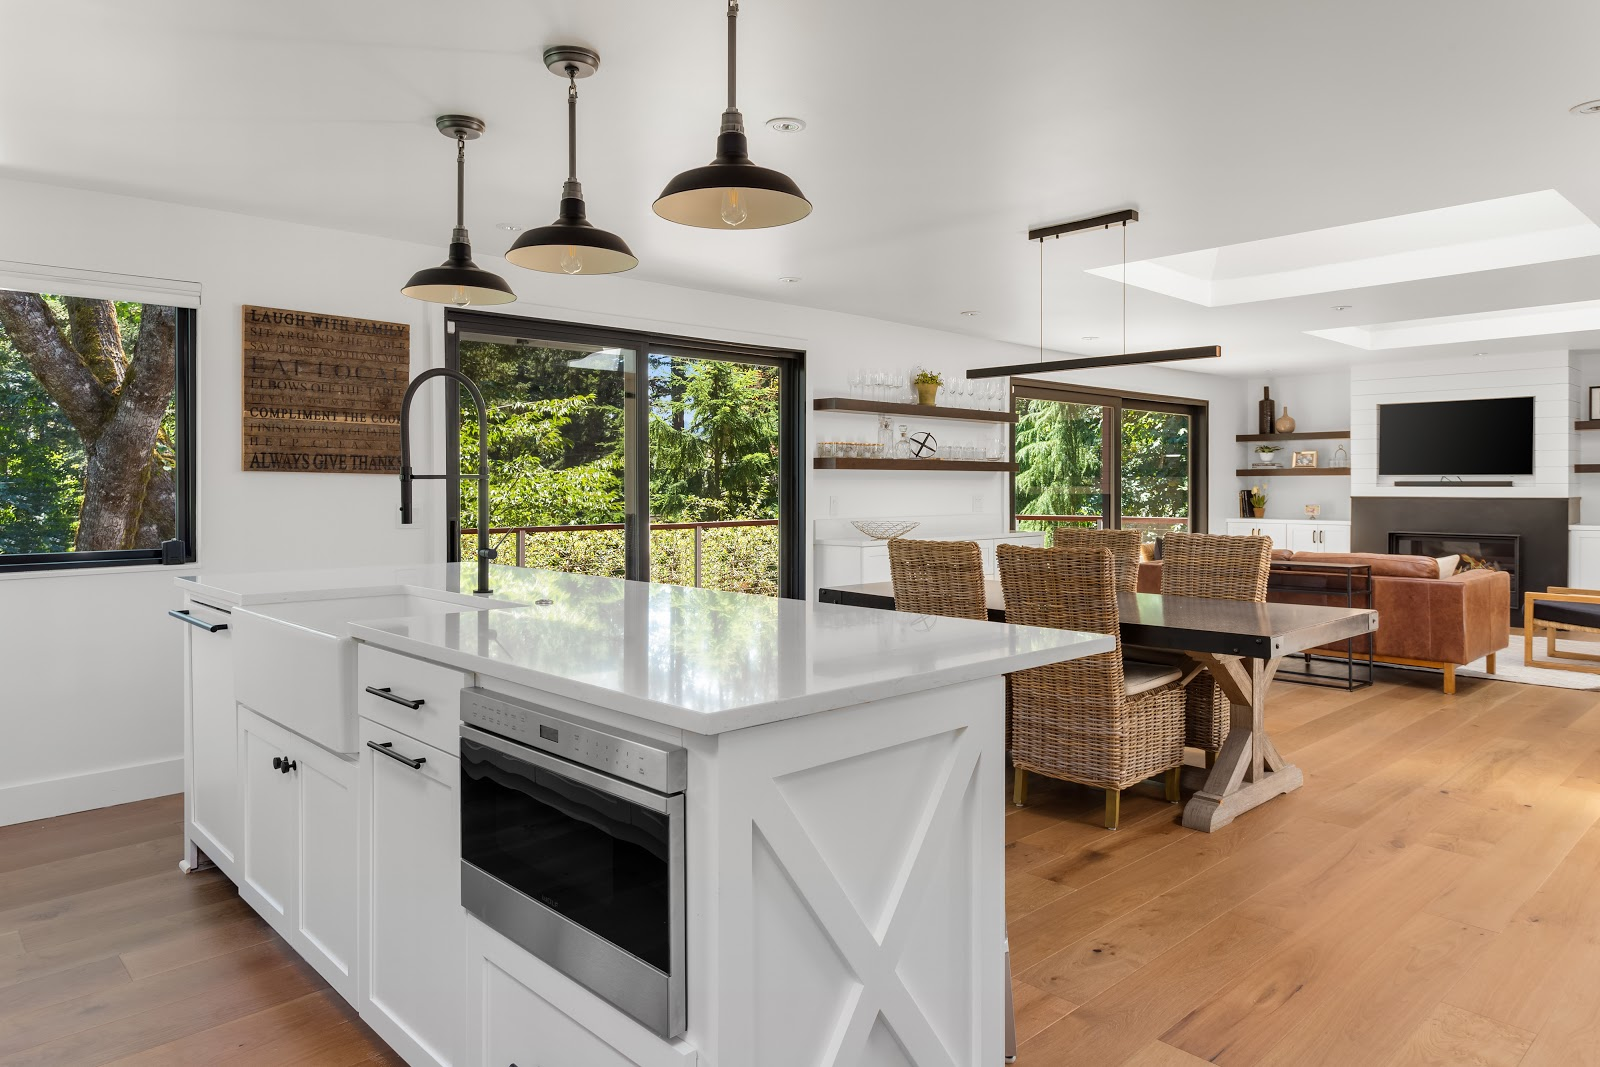
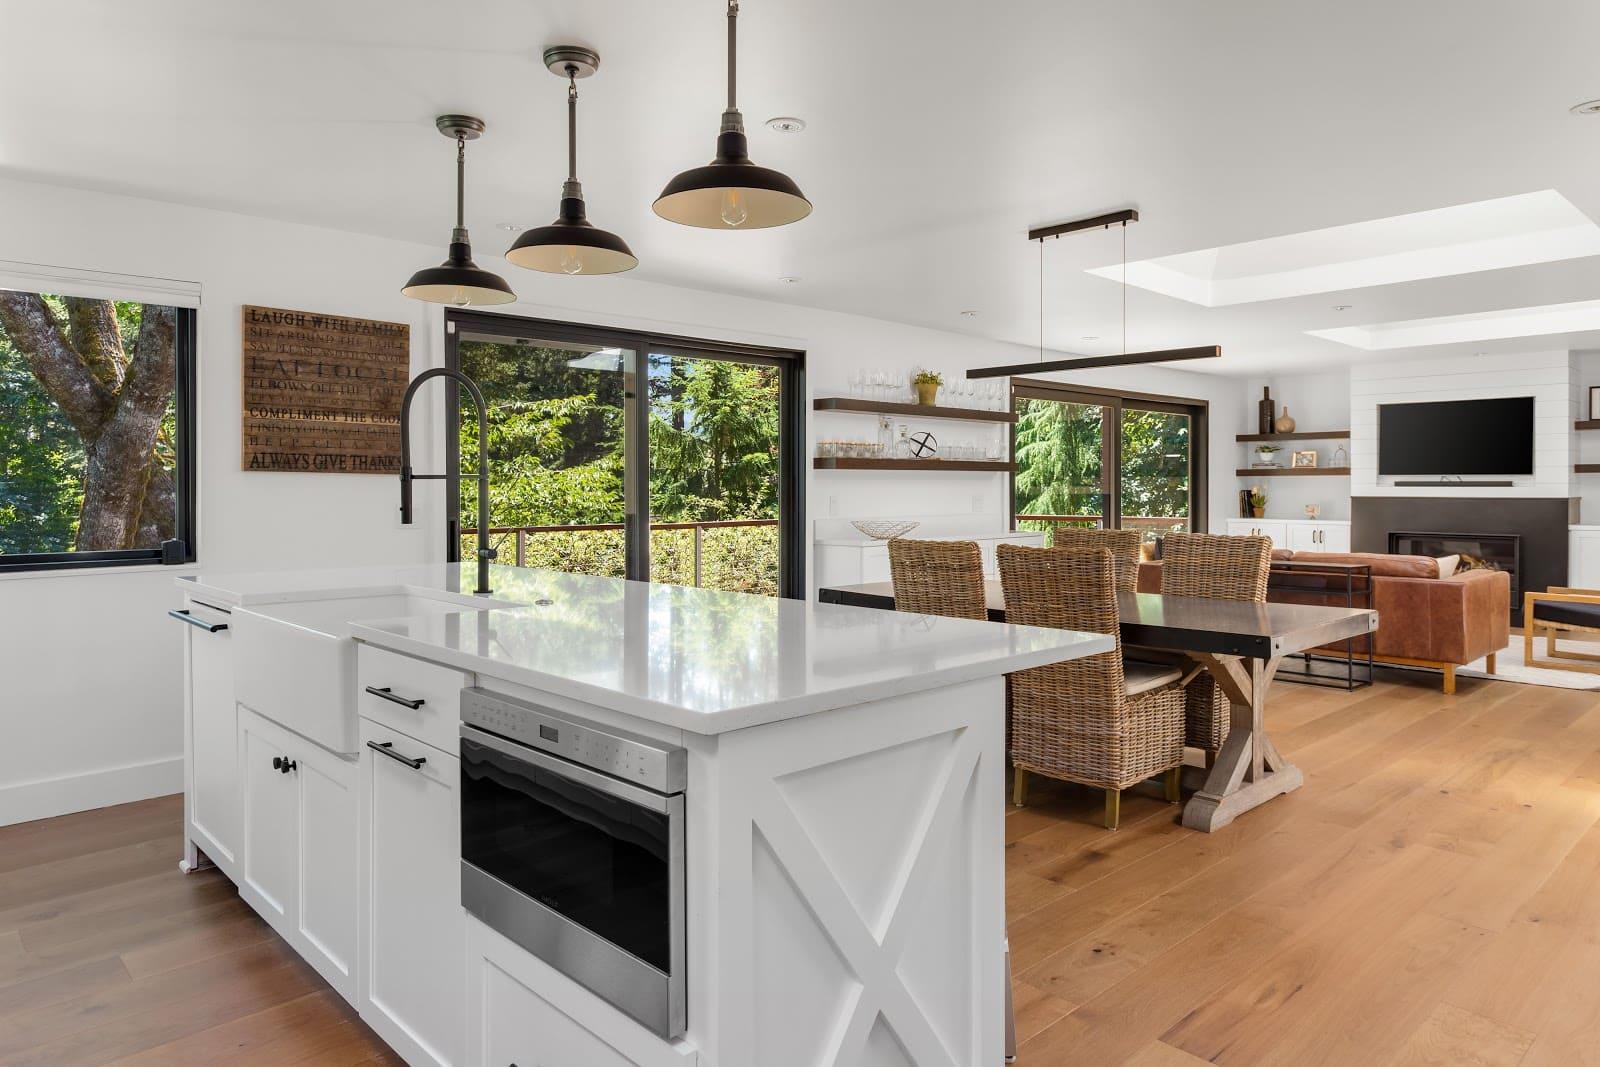
Redimensionare poze

Changed region(s): [[0.2812, 0.3402, 0.5, 0.5567], [0.6875, 0.4021, 0.7188, 0.433], [0.0312, 0.433, 0.0625, 0.4639]]

diff --git a/index.html b/index.html
@@ -29,7 +29,7 @@
 <body>
   <header class="site-header">
     <div class="header-content">
-      <img src="Content/Logo Dodi Innovatis.svg" alt="Dodi Innovatis Logo" class="logo" />
+      <img src="Content/Logo Dodi Innovatis.svg" alt="Dodi Innovatis Logo" class="logo" loading="lazy" />
       <div class="header-right">
         <!-- <div class="search-container">
           <input type="text" id="searchInput" placeholder="Caută..." class="search-input">
@@ -47,8 +47,8 @@
           <a href="#" class="social-link" aria-label="LinkedIn"><i class="fab fa-linkedin-in"></i></a>
         </div>
         <div class="header-buttons">
-          <button class="devis-btn" id="openDevisModal">Demander un Devis</button>
-          <a href="#" class="contact-btn" id="openContactModal">Contact</a>
+          <button type="button" class="btn devis-btn" id="openDevisModal">Demander un Devis</button>
+          <button type="button" class="btn contact-btn" id="openContactModal">Contact</button>
         </div>
 
         <!-- Contact Modal -->
@@ -894,9 +894,30 @@
     </div>
   </div>
 
-  <script src="script.js"></script>
-  <script src="js/contact-modal.js"></script>
-  <script src="js/devis-modal.js"></script>
+  <!-- Script-uri cu defer pentru a nu bloca randarea paginii -->
+  <script src="script.js" defer></script>
+  <script src="js/contact-modal.js" defer></script>
+  <script src="js/devis-modal.js" defer></script>
+  
+  <!-- Preload pentru font-uri critice -->
+  <link rel="preload" href="https://cdnjs.cloudflare.com/ajax/libs/font-awesome/6.0.0/webfonts/fa-solid-900.woff2" as="font" type="font/woff2" crossorigin>
+  
+  <!-- Loader pentru prima încărcare -->
+  <div id="loader" style="position:fixed;top:0;left:0;width:100%;height:100%;background:white;z-index:9999;display:flex;justify-content:center;align-items:center;transition:opacity 0.3s ease-out;">
+    <div style="width:50px;height:50px;border:5px solid #f3f3f3;border-top:5px solid #3498db;border-radius:50%;animation:spin 1s linear infinite"></div>
+  </div>
+  <script>
+    window.addEventListener('load', function() {
+      var loader = document.getElementById('loader');
+      loader.style.opacity = '0';
+      setTimeout(function() {
+        loader.style.display = 'none';
+      }, 300);
+    });
+  </script>
+  <style>
+    @keyframes spin { 0% { transform: rotate(0deg); } 100% { transform: rotate(360deg); } }
+  </style>
 </body>
 
 </html>

diff --git a/styles.css b/styles.css
@@ -878,8 +878,8 @@ img {
   align-items: center;
 }
 
-.header-buttons a.contact-btn,
-.header-buttons button.devis-btn {
+/* Stiluri de bază pentru butoane */
+.btn {
   padding: 8px 20px;
   border-radius: 4px;
   font-weight: 500;
@@ -894,13 +894,29 @@ img {
   background-color: transparent;
   color: #2c3e50;
   border: 1px solid #d7dadd;
+  box-shadow: 0 0 5px rgba(0, 0, 0, 0.1);
 }
 
-.header-buttons a.contact-btn:hover,
-.header-buttons button.devis-btn:hover {
+.btn:hover {
   background-color: #2c3e50;
   color: white !important;
   border-color: #2c3e50;
+}
+
+/* Stiluri specifice pentru butoane */
+.devis-btn {
+  /* Stiluri specifice pentru butonul de deviz dacă este necesar */
+}
+
+.contact-btn {
+  /* Stiluri specifice pentru butonul de contact dacă este necesar */
+}
+
+/* Stiluri pentru hover pe ambele butoane */
+.devis-btn:hover,
+.contact-btn:hover {
+  transform: translateY(-1px);
+  box-shadow: 0 2px 5px rgba(0,0,0,0.1);
 }
 
 /* Modal Styles */
